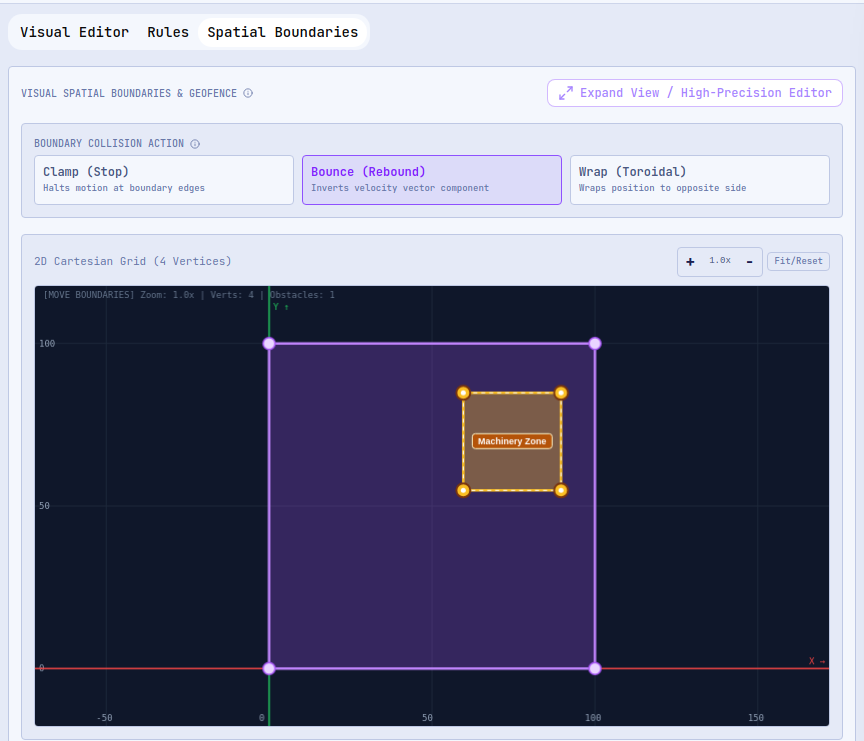
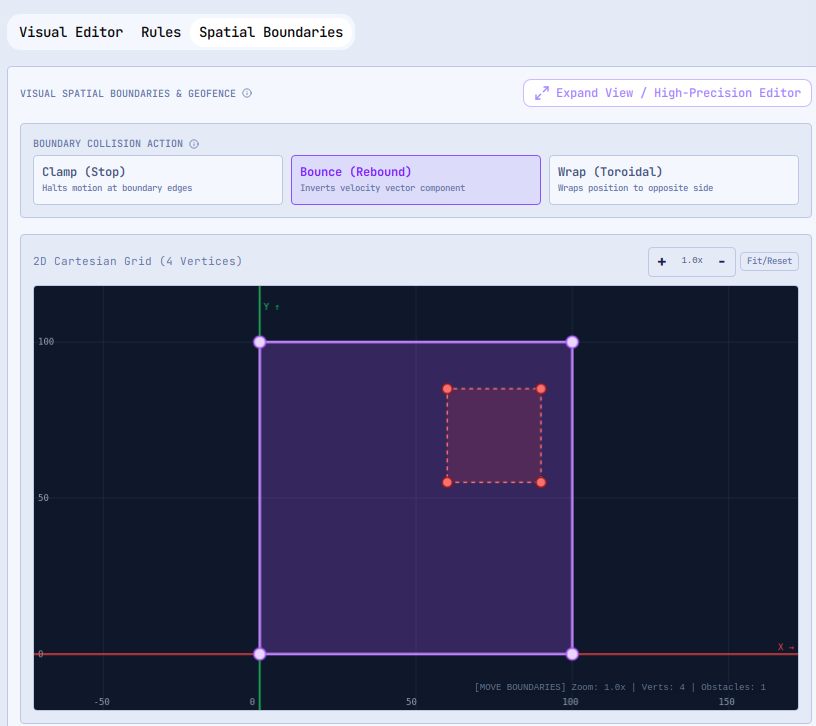
docs: document event loss, waypoints and the fixes issues

diff --git a/USER_GUIDE.md b/USER_GUIDE.md
@@ -40,8 +40,8 @@ This guide covers GenSynth **0.5.1**. For a quick overview, see the [README](REA
    - **[Temporal](#temporal-variables)**: [advance mode](#temporal-advance-mode) ·
      [clock drift](#temporal-clock-drift) · [output format](#temporal-output-format)
    - **[Point](#point-variables)**: [visual editor](#point-visual-editor) ·
-     [movement patterns](#point-movement-patterns) · [graph route](#point-graph-route) ·
-     [spatial boundaries](#point-spatial-boundaries) ·
+     [movement patterns](#point-movement-patterns) · [waypoint editor](#point-waypoint-editor) ·
+     [graph route](#point-graph-route) · [spatial boundaries](#point-spatial-boundaries) ·
      [changing the coordinate system](#changing-the-coordinate-system)
 10. [Recipes for typical event patterns](#recipes-for-typical-event-patterns)
 11. [Saving and loading](#saving-and-loading)
@@ -115,7 +115,7 @@ inside GenSynth (see [Importing a plugin](#importing-a-plugin)); there is nothin
 |---|---|
 | **Top bar** | Project name (a `*` means unsaved changes), status (**RUNNING** / **STOPPED**), **START** / **STOP**, **New**, **Load**, **Save**, **Save as**, **Connectors (N)** (catalog), **+** (import a plugin), **Feedback**, the version and the ⚙ **Settings** button. |
 | **Resource bar** | Live metrics, see below. |
-| **Left panel – GROUPS & FLOWS** | Your groups and the flows inside them. **+ ADD** opens a menu with **Add Group** and **Add Flow**. Each flow shows its live **msg/s**, **sent** (messages delivered) and **fails** (messages that could not be generated or sent), plus chips with the variables its template uses. The footer shows how many groups are running. |
+| **Left panel – GROUPS & FLOWS** | Your groups and the flows inside them. **+ ADD** opens a menu with **Add Group** and **Add Flow**. Each flow shows its live **msg/s**, **sent** (messages delivered), **fails** (messages that could not be generated or sent) and, when above 0, **dropped** in amber (messages lost on purpose by [event loss](#event-loss)), plus chips with the variables its template uses. The footer shows how many groups are running. |
 | **Center** | The editor of the selected group, flow or variable, with a breadcrumb at the top. |
 | **Right panel – VARIABLES** | The variables, split in **LOCAL**, **GROUP** and **GLOBAL** tabs. **+ ADD** creates a variable; the **→** button on a variable inserts it in the template you are editing. |
 | **Bottom panel** | **Logs**, **Statistics** and **Preview** of the generated messages. |
@@ -269,7 +269,7 @@ Click a group to open its workspace:
 | Action | What it does |
 |---|---|
 | **Lock group** / **Unlock group** | Lock disables every flow of the group: while the simulation runs, they stop generating messages. Unlock enables them again. Useful to silence a site without deleting it. |
-| **Clone group** | Creates copies of the group with all its flows (same flow names), their LOCAL variables and the GROUP variables. The group names follow a [naming pattern](#naming-patterns). |
+| **Clone group** | Creates copies of the group with all its flows (same flow names and settings, event loss included), their LOCAL variables and the GROUP variables. The group names follow a [naming pattern](#naming-patterns). |
 | **Repeater** | Creates several new flows at once in this group, see below. |
 | **Delete group** | Deletes the group and its flows (also available with right-click). |
 
@@ -324,14 +324,15 @@ The flow cannot be created until every required connector field (marked with **\
   live msg/s, the last error message if any, **Discard** and **Delete**.
 - **Technical Configuration:** **Flow Name**, **Every N ticks**, **Connector**, **Version** (when
   several versions of a plugin are installed), a line with the plugin id, its plugin API version
-  and its health, and the connector fields.
+  and its health, the connector fields and the **EVENT LOSS** section (see
+  [Event loss](#event-loss)).
 - **Message Format:** the template editor, with the **JSON / XML / CSV / PLAIN** buttons.
 
 In the left panel, the **⋮** menu of a flow offers **Clone flow** (copies the template, the
-connector settings, *Every N ticks* and the LOCAL variables) and **Delete flow**.
+connector settings, *Every N ticks*, the event loss and the LOCAL variables) and **Delete flow**.
 
-Changes to the template and to *Every N ticks* of a running flow apply live. Changes to the
-connector or its fields take effect the next time you click **START**.
+Changes to the template, to *Every N ticks* and to the event loss of a running flow apply live.
+Changes to the connector or its fields take effect the next time you click **START**.
 
 ### Writing the template
 
@@ -392,12 +393,16 @@ Rules worth remembering:
 | String | `.length` (`.size`), `.upper`, `.lower`, `.trim`, `.firstChar`, `.lastChar` |
 | Boolean | `.inverse` (`.not`), `.asNumber` (`1`/`0`), `.asString`, `.upper` (`TRUE`/`FALSE`) |
 | Temporal | `.year`, `.monthNumber`, `.monthText` (`January`), `.monthShort` (`Jan`), `.day`, `.dayOfWeek` (`Monday`), `.dayOfWeekNumber` (1–7), `.hour`, `.minute`, `.second`, `.timestamp` (epoch ms), `.timezone` |
-| List (Fixed Subset) | `.item0`, `.item1`… (0-based), `.size`, `.first`, `.last` |
+| List | `.size`, `.first`, `.last` with every strategy: with **Fixed Subset** they describe the subset; with the strategies that pick one item, `.size` is 1 and `.first` / `.last` are that item. `.item0`, `.item1`… (0-based) only with **Fixed Subset**. |
 | Point | `.x`, `.y`, `.z` (Cartesian); `.latitude`, `.longitude`, `.altitude`, `.altitudeUnit`, `.altitudeReference`, and `.latitudeDecimal` / `.longitudeDecimal` in DMS format (Geospatial); `.nodeName`, `.nodeId`, `.targetNodeName`, `.targetNodeId`, `.isPaused` (Graph Route) |
 
 Temporal sub-properties use the instant the variable generated for this message, whatever its
 output format, so `{{readingTime}}` and `{{readingTime.hour}}` always describe the same moment.
 Hours, days and months are given in the variable's **Time Zone**, or in UTC when it is empty.
+
+The autocomplete offers the List sub-properties only for **Fixed Subset** lists (a list without a
+strategy counts as Weighted Random), and `.item0`, `.item1`… on any other list are highlighted in
+red.
 
 ### Converting the format
 
@@ -414,6 +419,46 @@ result before you apply it. The conversion rewrites the template text:
 The selected format is only a label for the editor: GenSynth sends exactly the text of the
 template, whatever button is highlighted.
 
+### Event loss
+
+![EVENT LOSS section of a flow](docs-assets/user-guide/41-flow-event-loss.png)
+
+The **EVENT LOSS** section, after the connector fields of the **Technical Configuration** column,
+makes a flow lose some of its messages on purpose, to test how your consumer copes with missing
+events. Lost messages are generated but never sent, and they count as **dropped** (not as sent nor
+as fails).
+
+| Field | What it does | Default |
+|---|---|---|
+| **Random loss (%)** | Share of the generated messages lost at random (0–100, decimals allowed). | 0 (off) |
+| **Outage every N ticks** | Length of the outage cycle, in ticks. | 0 (off) |
+| **Outage length (ticks)** | The last ticks of each cycle lose every message. | 0 |
+
+How outages work:
+
+- Ticks are counted from the start of the group (tick 0), and the outage is the last *length*
+  ticks of each cycle (at most the whole cycle). With **Outage every N ticks** `4` and **Outage
+  length** `2`, the messages of ticks 2, 3, 6, 7, 10, 11… are lost.
+- The cycle counts simulation ticks, not messages of the flow: with *Every N ticks* = 3, only the
+  messages that fall on outage ticks are lost.
+- Outside an outage, each message is lost with the **Random loss (%)** probability.
+- When the length is equal to or greater than the cycle, an amber warning says that every message
+  of the flow is lost.
+- **START**, and resuming a paused group, restart the cycle at tick 0.
+
+Good to know:
+
+- The fields are applied when you leave them or press `Enter`; a running flow uses them from the
+  next tick. They mark the flow as unsaved (`*`), **Discard** reverts them and they are saved in
+  the `.gsynth` file (projects from older versions open with no loss).
+- **Clone flow** and **Clone group** copy them. The **Add flow** dialog does not show them: new
+  flows start without loss.
+- Lost messages still use `{{n}}` and advance the variables of the message, so a LOCAL counter
+  shows gaps where messages were lost (see
+  [Missing events](#missing-events-lost-messages-and-outages)).
+- The **dropped** counter is kept on pause and on stop, and resets when the group starts again from
+  stopped, like the other counters.
+
 ### Preview, logs and statistics
 
 ![Logs](docs-assets/user-guide/32-bottom-logs.png)
@@ -426,7 +471,8 @@ template, whatever button is highlighted.
 
 ![Statistics](docs-assets/user-guide/33-bottom-statistics.png)
 
-- **Statistics:** **TOTAL SENT**, **ERRORS**, **ACTIVE FLOWS**, **AVG LATENCY** (time the
+- **Statistics:** **TOTAL SENT**, **ERRORS**, **DROPPED** (messages of all flows lost on purpose
+  by [event loss](#event-loss); 0 while not running), **ACTIVE FLOWS**, **AVG LATENCY** (time the
   connector takes to confirm a message) and the throughput by technology.
 
 ![Preview](docs-assets/user-guide/34-bottom-preview.png)
@@ -435,7 +481,9 @@ template, whatever button is highlighted.
 
 **Counters:** a message is **sent** when the connector confirms it (for RabbitMQ, when the broker
 acknowledges it); it is a **fail** when it cannot be generated (for example an invalid variable)
-or the destination rejects it. The logs explain each failure.
+or the destination rejects it; it is **dropped** when it is generated but lost on purpose by
+[event loss](#event-loss). The logs explain each failure. Every generated message is sent, a fail,
+dropped or still pending: generated = sent + fails + dropped + pending.
 
 ---
 
@@ -1026,9 +1074,9 @@ are ignored).
 
 | Field | What it does | Default |
 |---|---|---|
-| **Drift Mode** | **Random Jitter (± Bounds):** adds a random amount between −max and +max ms to each value, so timestamps can arrive slightly out of order. **Constant Static Shift:** adds a fixed number of ms. **Progressive Drift / Tick:** adds n × rate ms to the n-th value, a clock that runs fast or slow. | Random Jitter |
+| **Drift Mode** | **Random Jitter (± Bounds):** adds a random amount between −max and +max ms to each value, so timestamps can arrive slightly out of order. **Constant Static Shift:** adds a fixed number of ms. **Progressive Drift / Tick:** adds n × rate ms to value n (counting from 0), a clock that runs fast or slow. | Random Jitter |
 | **Max Jitter Bound (ms)** / **Static Shift (ms)** | Size of the jitter or of the shift. | 0 |
-| **Drift Rate (ms / tick)** | Extra ms per value for Progressive Drift. Works with Simulated Step and Backfill Sequential Step. | 1.0 |
+| **Drift Rate (ms / tick)** | Extra ms per value for Progressive Drift. Works in every advance mode (Wall Clock, Simulated Step, Backfill with both strategies, Fixed). | 1.0 |
 
 #### Temporal: output format
 
@@ -1068,16 +1116,62 @@ Points model positions: a robot on a factory floor, a vehicle on a map, a drone 
 | Pattern | Fields | Behaviour |
 |---|---|---|
 | **Fixed Point (Constant)** | X/Y/Z (Latitude/Longitude/Altitude) | Always the same position. |
-| **Random Point (Within bounds)** | — | A new random position inside the bounding box on every value, outside forbidden zones and inside the polygon if you drew one. |
-| **Random Walk (Continuous step)** | **Max Step Distance** (default 10), **Momentum / Inertia (0 to 1)** (default 0) | Moves a random step of up to Max Step Distance per coordinate from the previous position (when the step is larger than the area, 5 % of the area is used). Inertia keeps the previous direction (smooth paths with values near 1). It starts at the Fixed Point coordinates when they are set (or when Min X is 0), otherwise at a random position, and avoids walls and forbidden zones. In Geospatial mode 0.000009° ≈ 1 m, 0.00009° ≈ 10 m, 0.0009° ≈ 100 m. |
-| **Circular Orbit / Spiral** | **Orbit Radius** (default 10), **Angular Speed (rad/tick)** (default 0.1), **Spiral Rate (+/- r/tick)** (default 0) | Circles around the centre of the bounding box (or around 0,0 when Min X is exactly 0); a spiral rate grows or shrinks the radius on each value. 2π / angular speed values make a full turn. |
-| **Waypoint Navigation** | **Interpolation Steps per Segment** | Not usable in 0.5.1: there is no way to enter waypoints (see [Known limitations](#known-limitations-and-issues)). Use Graph Route with a fixed sequence instead. |
+| **Random Point (Within bounds)** | — | A new random position inside the region on every value: inside the polygon if you drew one (2D and Geospatial) or inside the drawn shape (3D), and outside forbidden zones. |
+| **Random Walk (Continuous step)** | **Max Step Distance** (default 10), **Momentum / Inertia (0 to 1)** (default 0) | Moves a random step of up to Max Step Distance per coordinate from the previous position (when the step is larger than the area, 5 % of the area is used). Inertia keeps the previous direction (smooth paths with values near 1). It starts at the Fixed Point coordinates when they are set and inside the region (the polygon in 2D/Geospatial, the 3D shape in 3D) and outside obstacles; otherwise at a random valid position. It avoids walls and forbidden zones, and in 2D/Geospatial a step never ends outside the custom polygon nor cuts across it: keep Max Step Distance smaller than narrow passages, or the point may wait in place. In Geospatial mode 0.000009° ≈ 1 m, 0.00009° ≈ 10 m, 0.0009° ≈ 100 m. |
+| **Circular Orbit / Spiral** | **Orbit Radius** (default 10), **Angular Speed (rad/tick)** (default 0.1), **Spiral Rate (+/- r/tick)** (default 0) | Circles around the centre of the region (the centre of the bounding box), whatever Min X is; a spiral rate grows or shrinks the radius on each value. 2π / angular speed values make a full turn. |
+| **Waypoint Navigation** | The [waypoint editor](#point-waypoint-editor), **Loop Path** (default on), **Interpolation Steps** (default 1) | Travels along the waypoints in order. Each segment takes Interpolation Steps values: each waypoint appears once, followed by Steps − 1 evenly spaced points towards the next one. With **Loop Path** on, after the last waypoint it travels back to the first and repeats (a lap takes Steps × number of waypoints values); off, it stops on the last waypoint. The generator uses the waypoints as they are (it does not clamp them); in 2D and Geospatial the editor rejects points outside the region or in forbidden zones. Available in 2D, 3D and Geospatial. |
 | **Graph Route (Connected Graph Path)** | See below (2D and Geospatial only) | Moves along the edges of a graph of nodes that you draw. |
+
+#### Point: waypoint editor
+
+With the **Waypoint Navigation** pattern, the **Visual Editor** shows the waypoint editor.
+
+![Waypoint editor in 2D, with a region and an obstacle](docs-assets/user-guide/39-waypoint-editor-2d.png)
+
+| Element | What it does | Default |
+|---|---|---|
+| **WAYPOINTS** | Title, with the number of waypoints (*N waypoints*). | — |
+| **Loop Path** | On: after the last waypoint the point travels back to the first and repeats the path. Off: it stops on the last waypoint. | On |
+| **Interpolation Steps** | Values per segment, a whole number of at least 1. Applied when you leave the field or press `Enter`. | 1 |
+| **Clear** | Deletes every waypoint after asking *Clear all waypoints?* (**Yes** / **No**; `Esc` cancels). | — |
+| Visual area | A plane in 2D or a map in Geospatial, see below. | — |
+| Table | One row per waypoint, see below. | — |
+
+**Visual area:**
+
+- **2D:** a plane with the region (the dashed min/max box, plus the polygon if you drew one), the
+  enabled obstacles in red, the numbered path and, when **Loop Path** is on and there are 3 or more
+  waypoints, a dashed segment that closes the loop. Both axes use the same scale.
+- **Geospatial:** a map (OpenStreetMap tiles, or a technical grid when there is no connection) with
+  the region polygon or the min/max rectangle, the obstacles, the path with numbered markers and
+  the closing line. It fits the region when it opens; double-clicking does not zoom.
+- **3D:** there is no visual editor; the editor asks you to *Enter the coordinates in the table*.
+
+On the 2D plane and on the map (the hint line says *Click to add · Drag to move · Right-click or
+Delete to remove*):
+
+- click empty space to append a waypoint at the end of the path;
+- drag a waypoint to move it: the move is applied when you release the mouse, and a rejected drop
+  goes back;
+- right-click a waypoint to delete it, or click it to select it and press `Delete` or `Backspace`.
+
+![Waypoint editor on the map](docs-assets/user-guide/40-waypoint-editor-map.png)
+
+**Table:** columns **#**, **X**, **Y** and **Z** (**Lat**, **Lon** and **Alt** in Geospatial; no
+Z in 2D), with ↑ / ↓ on each row to move the waypoint up or down in the path and ✕ to delete it.
+**+ Add waypoint** adds one at the centre of the region (the first) or next to the last one
+(shifted 5 % of the region span, kept inside the region), with the same Z or altitude. The fields
+are applied when you leave them or press `Enter`; text that is not a number is rejected, latitude
+is limited to ±90 and longitude to ±180.
+
+**Validation (2D and Geospatial):** a waypoint inside a forbidden obstacle or outside the region,
+or a segment that crosses a wall or a forbidden zone or leaves the region, is rejected: a red
+warning appears over the editor (✕ closes it) and the value goes back.
 
 #### Point: graph route
 
 Draw the graph on the canvas or map of the route editor with its tools. A hint line at the
-bottom-left of the editor reminds you what the active tool does.
+top-right of the editor reminds you what the active tool does.
 
 | Tool | What it does |
 |---|---|
@@ -1093,6 +1187,9 @@ bottom-left of the editor reminds you what the active tool does.
   map. The move is applied when you release the mouse.
 - Selecting a node lets you rename it and edit its coordinates; the name and the coordinates are
   applied when you leave the field or press `Enter`.
+- The 2D canvas uses the same scale on both axes (a 200 × 100 region looks twice as wide as it is
+  tall) and its grid fills the canvas. On the map, the bounding box is drawn as a rectangle when
+  the region has no polygon.
 - Edges cannot cross forbidden zones. Warnings appear over the top of the editor and can be closed
   with their dismiss button.
 - **Fullscreen** opens the editor on the whole window and keeps the current map view; `Esc` exits
@@ -1100,7 +1197,7 @@ bottom-left of the editor reminds you what the active tool does.
 
 | Field | What it does | Default |
 |---|---|---|
-| **Graph Navigation Mode** | **Random Neighbor (Graph Walk):** at each node, go to a random connected node. **Fixed Sequence (Node Path):** follow the order you build in **Fixed Sequence Path Order** (pick the start node, then add neighbours; **Clear Path** empties it). | Random Neighbor |
+| **Graph Navigation Mode** | **Random Neighbor (Graph Walk):** at each node, go to a random connected node. **Fixed Sequence (Node Path):** follow the order you build in **Fixed Sequence Path Order** (pick the start node, then add neighbours; **Clear Path** empties it). A node can appear more than once (A → B → A → C). | Random Neighbor |
 | **Ticks Per Edge (Interpolation)** | Number of values needed to travel an edge (1 = jump from node to node). | 1 |
 | **Pause Probability (0.0 - 1.0)** | Chance of stopping when arriving at a node. | 0 |
 | **Pause Duration (Ticks)** | How many values the stop lasts. | 0 |
@@ -1121,9 +1218,9 @@ The **Spatial Boundaries** tab sets the region where the point lives.
 | Visual editor | 2D canvas, 3D view or world map, depending on the Coordinate System (see below). **Expand View / High-Precision Editor** opens a larger editor with presets (**Square**, **Triangle**, **Circle**, **New Region**), zoom and obstacle management; `Esc` closes it. | — |
 | **Boundary Collision Action** | Same as Boundary Behavior. | Clamp |
 | **Outer Envelope Bounding Box (AABB Bounds)** | **Min/Max X, Y, Z** (Latitude, Longitude, Altitude in Geospatial): the box the point lives in. | 0–100 on every axis |
-| **Exact Individual Polygon Vertices** | The vertices of a custom polygon (3 or more), when you drew one. The box then fits the polygon. | — |
+| **Exact Individual Polygon Vertices** | 2D and Geospatial: the vertices of a custom polygon (3 or more), when you drew one. The box then fits the polygon. In 3D the polygon is not used, and the list only shows the footprint of the drawn shape. | — |
 | Barriers & obstacles | **Obstacle Name**, **Type** (**Wall Line Segment** or **Forbidden Interior Polygon**) and **Add Barrier**; each barrier can be disabled or removed. Walls block Random Walk steps; forbidden polygons are never entered. | — |
-| Altitude (Geospatial) | **Independent Altitude Dynamics Pattern**: **Follow Primary XY Pattern**, **Fixed Altitude**, **Random Elevation (Uniform in Range)**, **Continuous Climb & Descent Walk** (**Max Vertical Step (m/tick)**), **Sinusoidal Hover Oscillation** (**Oscillation Speed (rad/tick)**); **Min/Max Altitude**, **Initial Altitude (Seed)**, **Altitude Measurement Unit** (m, ft, km, mi) and **Datum / Altitude Reference** (MSL, AGL, ELLIPSOID), which are written in the output. | Follow XY, m, MSL |
+| Altitude (Geospatial) | **Independent Altitude Dynamics Pattern**: **Follow Primary XY Pattern**, **Fixed Altitude** (the value typed in its **Fixed Altitude** field), **Random Elevation (Uniform in Range)**, **Continuous Climb & Descent Walk** (**Max Vertical Step (m/tick)**), **Sinusoidal Hover Oscillation** (**Oscillation Speed (rad/tick)**); **Min/Max Altitude**, **Initial Altitude (Seed)**, **Altitude Measurement Unit** (m, ft, km, mi) and **Datum / Altitude Reference** (MSL, AGL, ELLIPSOID), which are written in the output. | Follow XY, m, MSL |
 
 How editing works in every boundary and route editor:
 
@@ -1140,15 +1237,25 @@ How editing works in every boundary and route editor:
 - In **Move Boundaries** mode the region vertices take priority; whole obstacles can only be
   dragged in **Move Obstacles** mode.
 - Right-click a vertex or an edge for its menu: insert a vertex on an edge (of the region or of
-  an obstacle) or delete a vertex (a region keeps at least 3).
+  an obstacle) or delete a vertex (a region keeps at least 3). Vertices take priority; on an edge,
+  the menu is the one of the nearest edge within 10 px.
 - The presets (**Square**, **Triangle**, **Circle**) fill the current bounding box, so the region
   does not shrink. New obstacles appear at the centre of the region.
+- **New Region** asks for confirmation; `Esc` closes it without changes. In the expanded editor,
+  the first `Esc` closes the confirmation and the second closes the editor.
 
 **3D view:**
 
+- The shape drawn in the 3D view (cube, pyramid, cone or sphere) is the region where points are
+  generated: **Random Point** fills its volume, and **Random Walk** and **Circular Orbit** stay
+  inside it. The custom polygon is not used in 3D.
+- Its footprint is centred on the X/Y bounds. The base is at **Min Z**, or at **Max Z** when the
+  height is negative (a cube, pyramid or cone then points down). A sphere rests on Min Z: its
+  centre is Min Z + radius.
+- The dimensions you never set follow the bounds: width and length are the X and Y spans (100 when
+  a span is 0), the height is Max Z − Min Z and the radius is 50. Once you edit the shape, the
+  Min/Max fields only move it; resize it in the 3D view.
 - The height handle follows the cursor, and a negative height does not move the base.
-- The shape is centred on the X/Y bounds. For a sphere, the Z range is its diameter: from the
-  elevation to the elevation + 2 × radius.
 
 ![Geofence editor on the map (Expand View)](docs-assets/user-guide/27-point-map.png)
 
@@ -1158,8 +1265,10 @@ How editing works in every boundary and route editor:
   ±180°. Drag empty space to pan the map.
 - Right-click on the map to add a vertex on the nearest edge; right-click on a vertex to delete it
   (a region keeps at least 3).
-- **New Box Region** keeps the current region until you finish drawing the new box (releasing the
-  mouse outside the map also finishes it). The presets and a new box zoom the map to the region.
+- **New Box Region** asks for confirmation first (`Esc` closes it without changes; in the expanded
+  editor, the first `Esc` closes the confirmation and the second the editor), and keeps the current
+  region until you finish drawing the new box (releasing the mouse outside the map also finishes
+  it). The presets and a new box zoom the map to the region.
 - The marker icons work offline. The altitude fields are applied when you leave them or press
   `Enter`.
 
@@ -1171,15 +1280,16 @@ How editing works in every boundary and route editor:
 
 Changing the **Coordinate System** keeps as much of the configuration as the units allow:
 
-- **2D ↔ 3D Cartesian** share units, so the region is kept: bounds, polygon and obstacles. Graph
-  Route is not available in 3D: going to 3D with Graph Route switches the pattern to **Random
-  Point** and drops the route, after asking you first.
+- **2D ↔ 3D Cartesian** share units, so the region is kept: bounds, polygon and obstacles. The
+  waypoints are kept too (a missing Z becomes 0). Graph Route is not available in 3D: going to 3D
+  with Graph Route switches the pattern to **Random Point** and drops the route, after asking you
+  first.
 - **Cartesian ↔ Geospatial** use different units (coordinate units against degrees). GenSynth
   first asks for confirmation, listing what will be lost, and then:
   - resets the bounds to the defaults of the new system: 0 to 100 on every axis in Cartesian, or
     a city-sized area around Madrid in Geospatial;
-  - resets the region polygon, the obstacles, the route graph and the fixed point (which moves to
-    the centre of the new region);
+  - resets the region polygon, the obstacles, the route graph, the waypoints and the fixed point
+    (which moves to the centre of the new region);
   - adapts **Max Step Distance**, **Orbit Radius** and the jitter radius to the new units:
     0.0005°, 0.01° and 0 in Geospatial, 10, 10 and 0 in Cartesian.
 
@@ -1237,7 +1347,30 @@ Short bursts of high activity separated by quiet periods:
   **Random** 8–10.
 - The pace of a flow is fixed, so a burst changes the values, not the number of messages. To
   also raise the event rate, model the bursty source as a second flow with a smaller *Every N
-  ticks*, and use **Lock group** / **Unlock group** to switch it on and off by hand.
+  ticks*, and use **Lock group** / **Unlock group** to switch it on and off by hand. For scheduled
+  silences, use the outages of [event loss](#event-loss) instead.
+
+### Missing events (lost messages and outages)
+
+A device that loses some readings and goes silent from time to time, to test how your consumer
+detects missing data:
+
+- Numeric `seq`: **Linear Drift**, **Minimum** `1`, **Maximum** a large value such as
+  `1000000000`, **Precision** **Integer**, **Drift Rate** `1`, **Virtual Clock Delta** `1`. It
+  counts 1, 2, 3…, one per message of the flow.
+- Template: `{"device": "{{flow.name}}", "seq": {{seq}}, …}`, followed by the readings of the
+  device.
+- [Event loss](#event-loss) of the flow: **Random loss (%)** `5`, **Outage every N ticks** `300`
+  and **Outage length (ticks)** `20`.
+
+About 5 % of the messages are lost at random, and the device is silent during the last 20 ticks of
+every 300 (20 s every 5 minutes with a tick of 1 second). Lost messages still advance `seq`, so
+the consumer can detect both cases: a jump in `seq` reveals lost messages, and a silence longer
+than the usual interval reveals an outage (for example, a CEP pattern "no event from a device for
+N seconds").
+
+Use a LOCAL counter rather than `{{n}}`: `{{n}}` is shared by all flows, so it already has gaps
+when several flows run.
 
 ### Correlated values
 
@@ -1332,18 +1465,6 @@ Limitations of the design:
 - **The Statistics totals carry over between projects** until GenSynth is restarted, as does
   `{{n}}`.
 
-Known issues in 0.5.1, with workarounds:
-
-| Issue | Workaround |
-|---|---|
-| **Progressive Drift** only works in **Simulated Step** and **Backfill Historical** (Sequential Step) modes; it has no effect in **Wall Clock** mode. | Use Simulated Step. |
-| **Waypoint Navigation** has no way to enter waypoints, so the point does not move. | Use **Graph Route** with a **Fixed Sequence**. |
-| In **3D Cartesian**, the 3D shape (cube, pyramid, cone, sphere) drawn in the 3D editor is not used: points are kept in a 100 × 100 × 100 box centred on the bounding box. | Use 2D or Geospatial when the exact limits matter. |
-| **Circular Orbit** circles around (0, 0) when Min X (or Min Latitude) is exactly 0, instead of the centre of the bounding box. | Use a bounding box whose Min X is not 0. |
-| **Random Walk** in 2D/Geospatial can leave a custom polygon (it stays inside the bounding box and avoids obstacles). | Use forbidden polygons or walls to fence it in. |
-| A node repeated in a Graph Route **Fixed Sequence** (A → B → A → C) makes the route loop back early (A → B → A → B…). | Do not repeat nodes in the sequence; use Random Neighbor or two variables. |
-| The template autocomplete offers `.size`, `.first` and `.last` for every List, but they only make sense with **Fixed Subset**: with other strategies they return the selected item. | Use them only with Fixed Subset lists. |
-
 ---
 
 ## Troubleshooting
@@ -1353,6 +1474,7 @@ Known issues in 0.5.1, with workarounds:
 | The first start shows *"GenSynth could not set up its embedded browser"* | The embedded browser could not be downloaded. Check your internet connection (and proxy or firewall) and click **Retry**. |
 | The logs show *Invalid connector configuration…* when starting a group | A required connector field is empty or invalid; the message says which one. |
 | A plugin is rejected as "built for the legacy plugin API" | That plugin was made for an older GenSynth; it must be rebuilt by its author. |
+| Messages are missing, or **dropped** grows | Check the [event loss](#event-loss) of the flow (**Random loss (%)** and the outages). |
 | *fails* keeps growing | Check the logs panel (bottom): it shows why the message could not be generated or why the destination rejected it. |
 | START warns about *validation errors or circular dependencies* | A formula, template variable or conditional rule refers to a variable that does not exist, or two variables refer to each other. Fix the red references. |
 | RabbitMQ: *Connection refused* | The broker is not running or Host/Port are wrong. Check `docker ps` and that port 5672 is published. |

diff --git a/packaging/release-notes.md b/packaging/release-notes.md
@@ -4,6 +4,9 @@
 - **`{{flow.name}}`** in message templates: each flow sends its own name, so cloned devices get their own ID.
 - **Clone naming offsets:** `H${index+1}` names the clones of *H1* as *H2*, *H3*…
 - **Conditional rules** can override a variable with a full generator (e.g. Random 40–120), not only with a fixed value.
+- **Event loss per flow:** lose a random share of the messages and schedule outages (the last ticks of every N); lost messages are counted as **dropped** in the flow list and in Statistics.
+- **Waypoint editor:** Waypoint Navigation is now usable, with a visual editor on the 2D plane or the map and a coordinate table.
+- **3D shapes define the generation region:** the cube, pyramid, cone or sphere drawn in the 3D view is where points are generated.
 - **Fixes:**
   - a variable has a single value per message (repeated references, formulas and conditional rules all see the same value);
   - literal list items no longer turn into numbers, and new list items always get a unique id;
@@ -12,7 +15,15 @@
   - date sub-properties (`.timestamp`, `.hour`…) work with any date format, and the `ISO_INSTANT` format is accepted;
   - formulas read numbers that have a prefix or suffix, and are visible in the light theme;
   - Markov probabilities keep the decimal point while typing;
-  - the Initial Value of numeric variables can be left empty; duplicate variable names are reported; fast typing no longer loses characters in the variable editors.
+  - the Initial Value of numeric variables can be left empty; duplicate variable names are reported; fast typing no longer loses characters in the variable editors;
+  - progressive clock drift works in every time mode; Circular Orbit turns around the centre of the region; Random Walk stays inside custom polygons and starts inside the region;
+  - Graph Route Fixed Sequences can repeat nodes; list `.size`, `.first` and `.last` work with every strategy; Fixed Altitude uses its value in Geospatial;
+  - the route editor uses the same scale on both axes; `Esc` closes the New Region and New Box Region confirmations.
+- **Behaviour changes for existing projects:**
+  - Waypoint Navigation sends each waypoint once per lap, followed by Interpolation Steps − 1 points towards the next one;
+  - Circular Orbit always turns around the centre of the region, unless an explicit orbit centre is set;
+  - 3D points fill the drawn shape instead of a fixed 100 × 100 × 100 box;
+  - Random Walk starts at the Fixed Point only when it is inside the region and outside obstacles, otherwise at a random valid position.
 - **[User guide](https://github.com/alegarciasanchez7/tfg-gensynth/blob/main/USER_GUIDE.md)** rewritten with screenshots.
 
 ## Download and install
